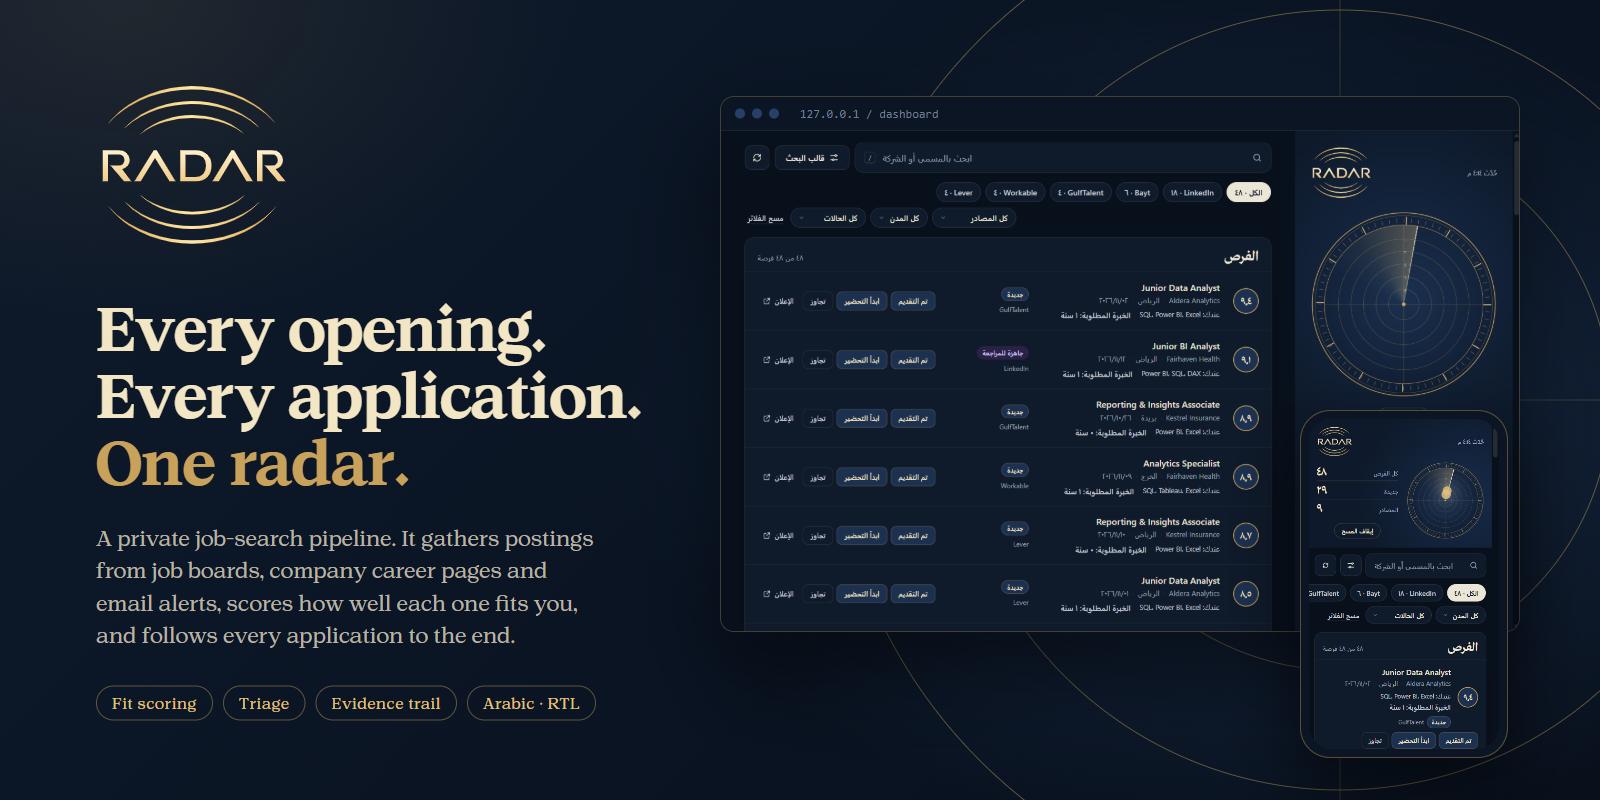
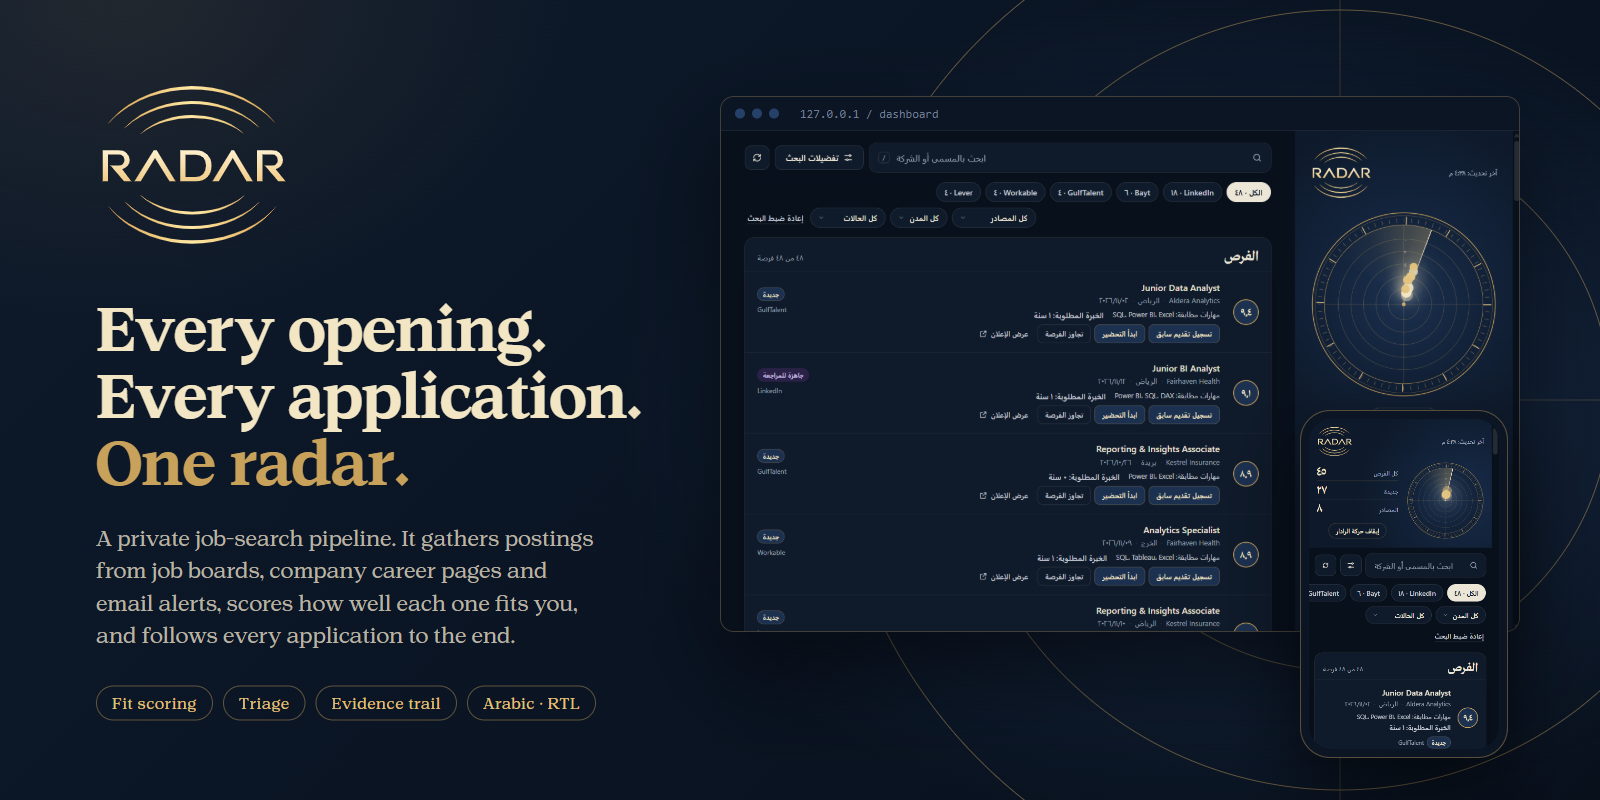
Update screenshots and wording for the clearer dashboard labels

diff --git a/README.md b/README.md
@@ -46,20 +46,20 @@ Every posting gets a score from 0 to 10, built from three things: how many of yo
 
 Nothing is a black box, and a score you set yourself is never overwritten.
 
-### Lets you describe what you want in plain words
+### Lets you describe your experience in plain words
 
 <p align="center">
-  <img src="assets/search-template.png" alt="The search template: describe what you want, then pick cities, job titles and skills" width="78%">
+  <img src="assets/search-template.png" alt="Search preferences: describe your experience, then pick cities, job titles and skills" width="78%">
 </p>
 
-Write a sentence or two about the roles you want, the cities, your skills and your experience. A language model proposes the cities, job titles and skills. You review and edit them before anything is saved. Only the text you type is sent, and nothing is stored until you approve it.
+Write a sentence or two about your background and the roles you want. A language model suggests the cities, job titles and skills for your search preferences. You review and edit them before anything is saved. Only the text you type is sent, and nothing is stored until you approve it.
 
 ### Follows every application, with evidence
 
 Each opportunity moves through a fixed set of statuses: new, preparing, ready for review, submitted, interview, offer, with skipped, withdrawn and rejected as ways out. Moves that make no sense are not allowed.
 
 <p align="center">
-  <img src="assets/record-submission.png" alt="Recording a submission with its evidence" width="78%">
+  <img src="assets/record-submission.png" alt="Recording an application together with its evidence" width="78%">
 </p>
 
 An application cannot be marked as submitted without proof. You attach a confirmation email, a link, a screenshot path or a note, and the date. The record stays attached to the opportunity, so you can always answer "did I apply, and how do I know?".
